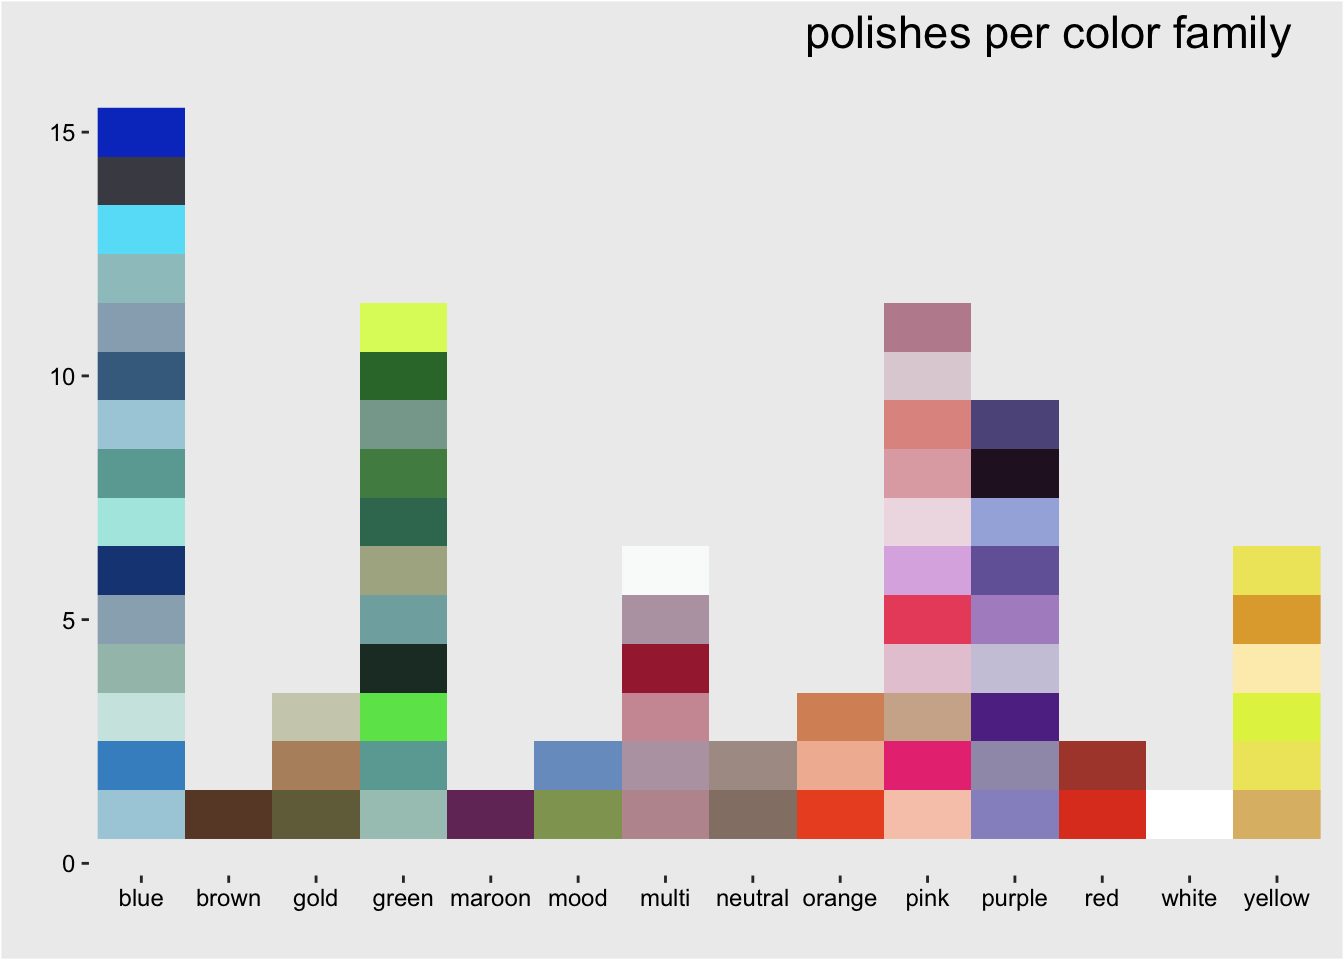
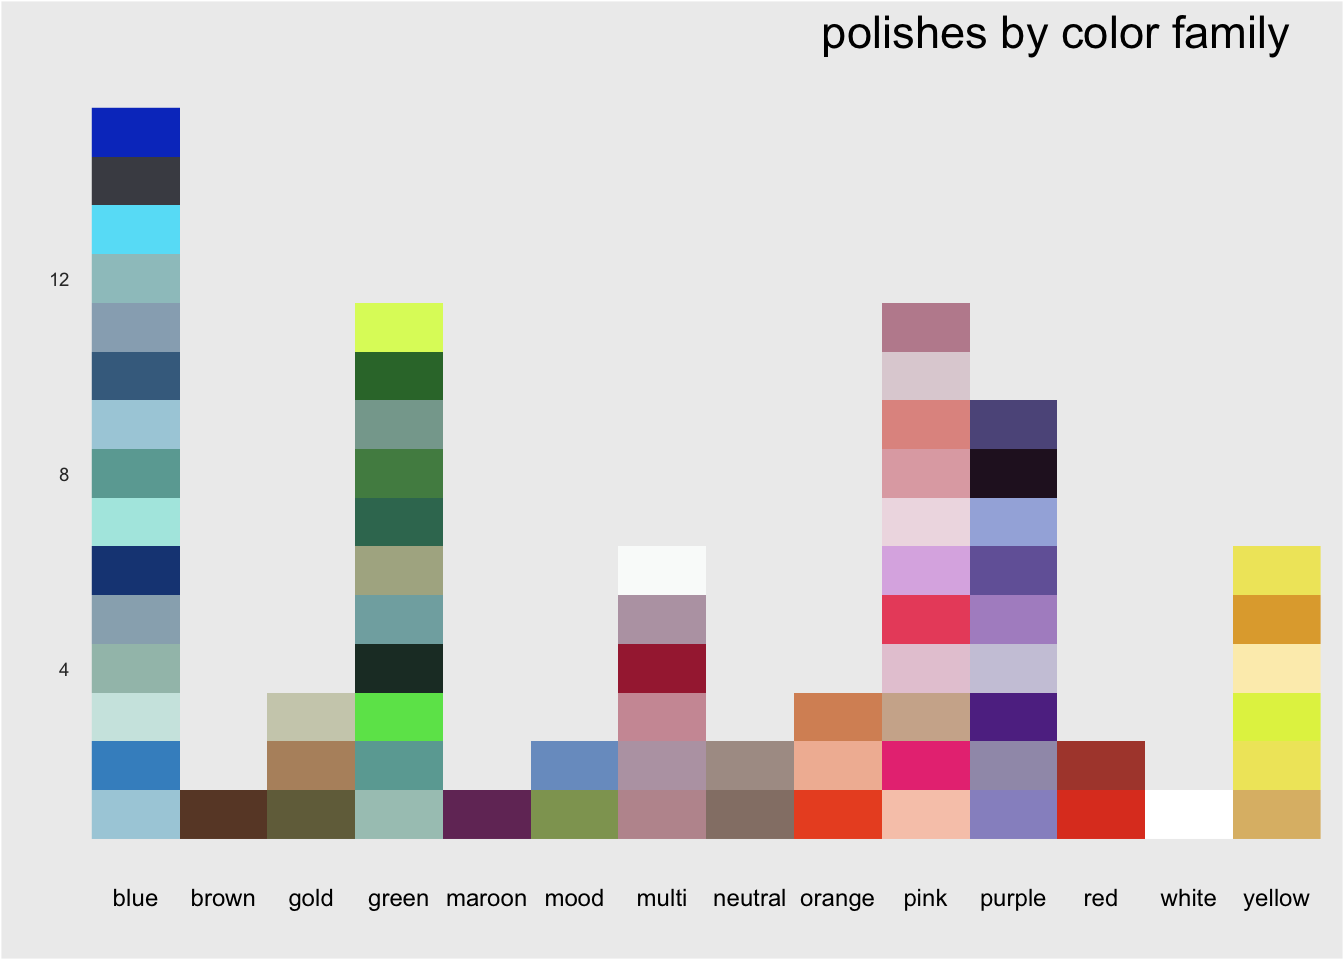
update plots

diff --git a/visualization_final_report.html b/visualization_final_report.html
@@ -757,18 +757,21 @@ Loading required package: showtextdb</code></pre>
 <span id="cb24-7"><a href="#cb24-7" aria-hidden="true" tabindex="-1"></a>  <span class="fu">labs</span>(</span>
 <span id="cb24-8"><a href="#cb24-8" aria-hidden="true" tabindex="-1"></a>    <span class="at">y =</span> <span class="st">""</span>,</span>
 <span id="cb24-9"><a href="#cb24-9" aria-hidden="true" tabindex="-1"></a>    <span class="at">x =</span> <span class="st">""</span>,</span>
-<span id="cb24-10"><a href="#cb24-10" aria-hidden="true" tabindex="-1"></a>    <span class="at">title =</span> <span class="st">"polishes per color family"</span>) <span class="sc">+</span></span>
-<span id="cb24-11"><a href="#cb24-11" aria-hidden="true" tabindex="-1"></a>  <span class="fu">theme</span>(<span class="at">panel.background =</span> <span class="fu">element_rect</span>(<span class="at">fill =</span> <span class="st">"gray93"</span>),</span>
-<span id="cb24-12"><a href="#cb24-12" aria-hidden="true" tabindex="-1"></a>        <span class="at">panel.grid.minor =</span> <span class="fu">element_blank</span>(),</span>
-<span id="cb24-13"><a href="#cb24-13" aria-hidden="true" tabindex="-1"></a>        <span class="at">panel.grid.major =</span> <span class="fu">element_blank</span>(),</span>
-<span id="cb24-14"><a href="#cb24-14" aria-hidden="true" tabindex="-1"></a>        <span class="at">plot.background =</span> <span class="fu">element_rect</span>(<span class="at">fill =</span> <span class="st">"gray93"</span>),</span>
-<span id="cb24-15"><a href="#cb24-15" aria-hidden="true" tabindex="-1"></a>        <span class="at">plot.title =</span> <span class="fu">element_text</span>(<span class="at">size =</span> <span class="dv">17</span>, <span class="at">hjust =</span> .<span class="dv">95</span>),</span>
-<span id="cb24-16"><a href="#cb24-16" aria-hidden="true" tabindex="-1"></a>        <span class="at">axis.text =</span> <span class="fu">element_text</span>(<span class="at">size =</span> <span class="dv">9</span>, <span class="at">color =</span> <span class="st">"black"</span>)</span>
-<span id="cb24-17"><a href="#cb24-17" aria-hidden="true" tabindex="-1"></a>        )</span></code><button title="Copy to Clipboard" class="code-copy-button"><i class="bi"></i></button></pre></div>
+<span id="cb24-10"><a href="#cb24-10" aria-hidden="true" tabindex="-1"></a>    <span class="at">title =</span> <span class="st">"polishes by color family"</span>) <span class="sc">+</span></span>
+<span id="cb24-11"><a href="#cb24-11" aria-hidden="true" tabindex="-1"></a>  <span class="fu">scale_y_continuous</span>(<span class="at">breaks =</span> <span class="fu">c</span>(<span class="dv">4</span>, <span class="dv">8</span>, <span class="dv">12</span>)) <span class="sc">+</span></span>
+<span id="cb24-12"><a href="#cb24-12" aria-hidden="true" tabindex="-1"></a>  <span class="fu">theme</span>(<span class="at">panel.background =</span> <span class="fu">element_rect</span>(<span class="at">fill =</span> <span class="st">"gray93"</span>),</span>
+<span id="cb24-13"><a href="#cb24-13" aria-hidden="true" tabindex="-1"></a>        <span class="at">panel.grid.minor =</span> <span class="fu">element_blank</span>(),</span>
+<span id="cb24-14"><a href="#cb24-14" aria-hidden="true" tabindex="-1"></a>        <span class="at">panel.grid.major =</span> <span class="fu">element_blank</span>(),</span>
+<span id="cb24-15"><a href="#cb24-15" aria-hidden="true" tabindex="-1"></a>        <span class="at">plot.background =</span> <span class="fu">element_rect</span>(<span class="at">fill =</span> <span class="st">"gray93"</span>),</span>
+<span id="cb24-16"><a href="#cb24-16" aria-hidden="true" tabindex="-1"></a>        <span class="at">plot.title =</span> <span class="fu">element_text</span>(<span class="at">size =</span> <span class="dv">17</span>, <span class="at">hjust =</span> .<span class="dv">95</span>),</span>
+<span id="cb24-17"><a href="#cb24-17" aria-hidden="true" tabindex="-1"></a>        <span class="at">axis.text.x =</span> <span class="fu">element_text</span>(<span class="at">size =</span> <span class="dv">9</span>, <span class="at">color =</span> <span class="st">"black"</span>),</span>
+<span id="cb24-18"><a href="#cb24-18" aria-hidden="true" tabindex="-1"></a>        <span class="at">axis.ticks =</span> <span class="fu">element_blank</span>(),</span>
+<span id="cb24-19"><a href="#cb24-19" aria-hidden="true" tabindex="-1"></a>        <span class="at">axis.text.y =</span> <span class="fu">element_text</span>(<span class="at">size =</span> <span class="dv">7</span>, <span class="at">color =</span> <span class="st">"gray20"</span>)</span>
+<span id="cb24-20"><a href="#cb24-20" aria-hidden="true" tabindex="-1"></a>        )</span></code><button title="Copy to Clipboard" class="code-copy-button"><i class="bi"></i></button></pre></div>
 <div class="cell-output-display">
 <p><img src="visualization_final_report_files/figure-html/unnamed-chunk-12-1.png" class="img-fluid" width="672"></p>
 </div>
-<div class="sourceCode cell-code" id="cb25"><pre class="sourceCode r code-with-copy"><code class="sourceCode r"><span id="cb25-1"><a href="#cb25-1" aria-hidden="true" tabindex="-1"></a><span class="co"># need to remove 0 tick mark on y axis and move up x markers (without tick marks)</span></span></code><button title="Copy to Clipboard" class="code-copy-button"><i class="bi"></i></button></pre></div>
+<div class="sourceCode cell-code" id="cb25"><pre class="sourceCode r code-with-copy"><code class="sourceCode r"><span id="cb25-1"><a href="#cb25-1" aria-hidden="true" tabindex="-1"></a><span class="co"># need to move up x markers and extend axis slightly, and move title down slightly</span></span></code><button title="Copy to Clipboard" class="code-copy-button"><i class="bi"></i></button></pre></div>
 </div>
 <div class="cell">
 <div class="sourceCode cell-code" id="cb26"><pre class="sourceCode r code-with-copy"><code class="sourceCode r"><span id="cb26-1"><a href="#cb26-1" aria-hidden="true" tabindex="-1"></a><span class="fu">ggplot</span>(nailpolish, <span class="fu">aes</span>(finish, <span class="at">fill =</span> color_family)) <span class="sc">+</span> </span>
